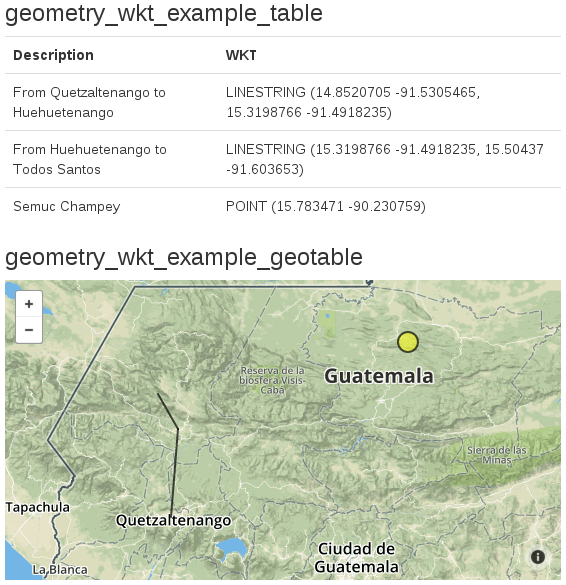
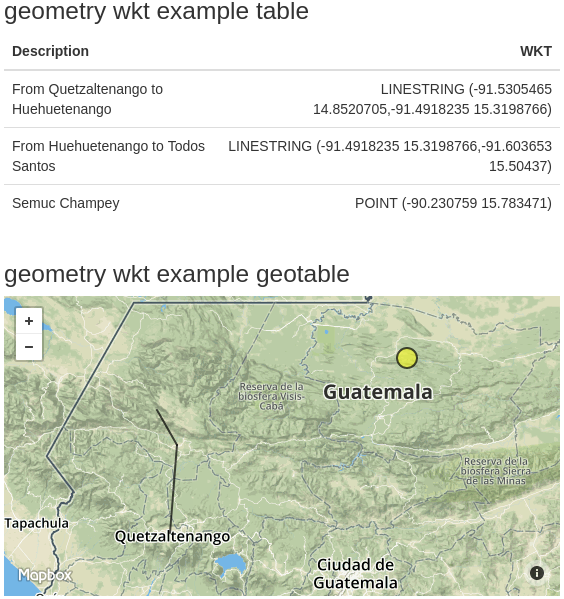
Update screenshot for wkt example

Changed region(s): [[0.0, 0.4308, 0.9947, 1.0], [0.0, 0.0, 0.9947, 0.3692], [0.9043, 0.0615, 0.9947, 0.0923]]

diff --git a/crosscompute/selected-recipes-in-python.rst b/crosscompute/selected-recipes-in-python.rst
@@ -535,7 +535,7 @@ If the table has a column name ending in ``_latitude`` and a column name ending 
 
 .. image:: ../_static/show-map-examples-geometry-point.png
 
-If the table has a column name ending in ``_wkt``, then each row will render as the corresponding `WKT geometry <https://en.wikipedia.org/wiki/Well-known_text>`_.
+If the table has a column name ending in ``_wkt``, then each row will render as the corresponding `WKT geometry <https://en.wikipedia.org/wiki/Well-known_text>`_.  Specify WKT coordinates using (longitude, latitude) coordinate order.
 
 .. image:: ../_static/show-map-examples-geometry-wkt.png
 
@@ -547,8 +547,6 @@ Here are the recognized WKT geometry types:
 - MULTILINESTRING
 - POLYGON
 - MULTIPOLYGON
-
-Specify WKT coordinates using (longitude, latitude) coordinate order.
 
 
 Vary background
